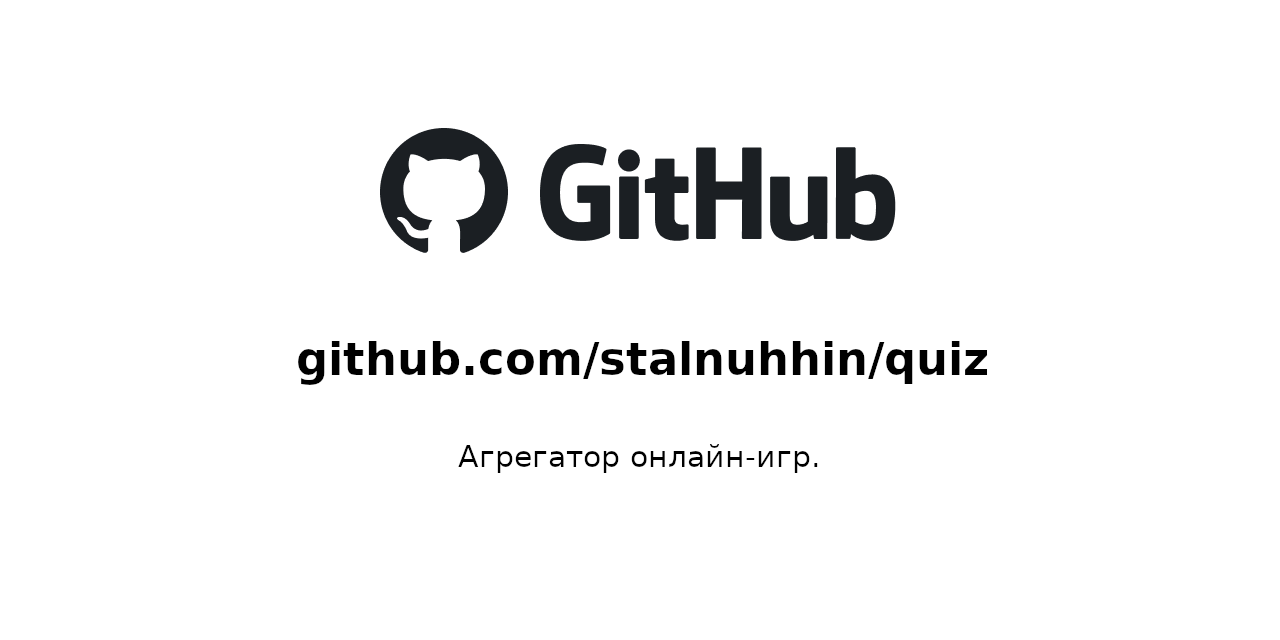
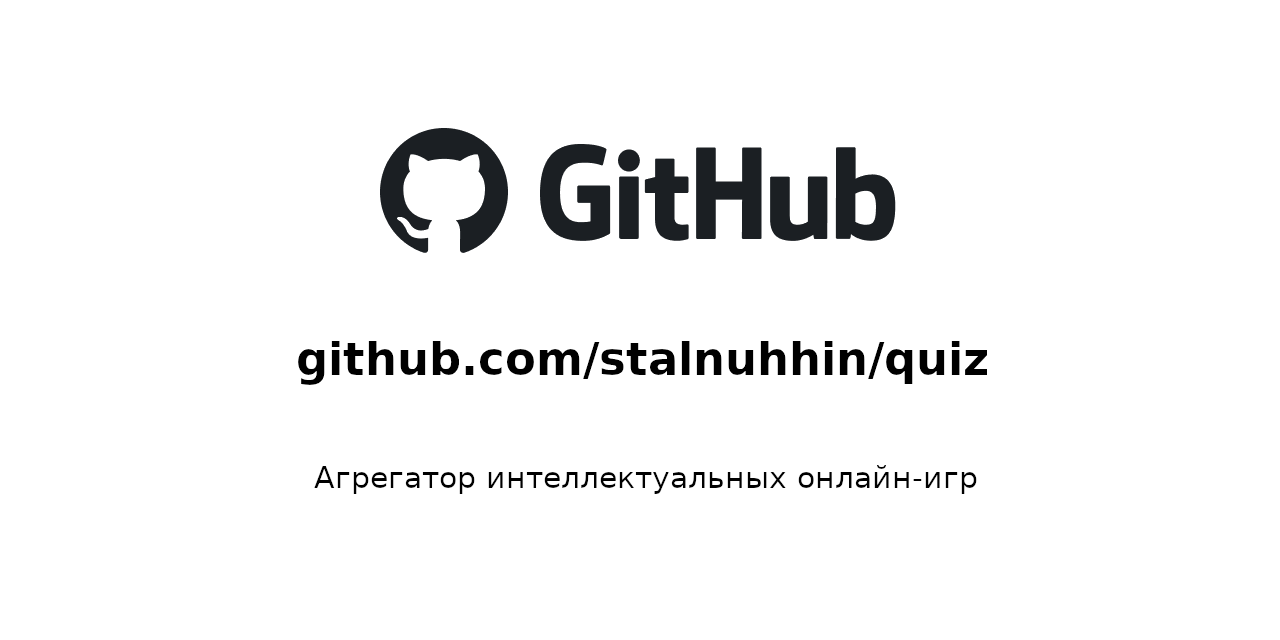
updates

Changed region(s): [[0.25, 0.6875, 0.7812, 0.7812]]

diff --git a/index.html b/index.html
@@ -5,9 +5,9 @@
     <meta name="viewport" content="width=device-width, initial-scale=1, shrink-to-fit=no">
     <link rel="stylesheet" href="https://stackpath.bootstrapcdn.com/bootstrap/4.4.1/css/bootstrap.min.css"
           integrity="sha384-Vkoo8x4CGsO3+Hhxv8T/Q5PaXtkKtu6ug5TOeNV6gBiFeWPGFN9MuhOf23Q9Ifjh" crossorigin="anonymous">
-    <title>Агрегатор online-квизов</title>
-    <meta property="og:title" content="Агрегатор онлайн-игр"/>
-    <meta property="og:description" content="Агрегатор онлайн-игр: все игры в одном месте."/>
+    <title>Агрегатор интеллектуальных online-игр</title>
+    <meta property="og:title" content="Агрегатор интеллектуальных онлайн-игр"/>
+    <meta property="og:description" content="Агрегатор интеллектуальных онлайн-игр: все игры в одном месте."/>
     <meta property="og:image" content="https://stalnuhhin.github.io/quiz/sm.png"/>
 
 </head>
@@ -93,7 +93,7 @@
                         <div class="jumbotron mt-5">
                             <h1 class="display-4">Что это?</h1>
                             <p class="lead">
-                                На этой страничке представлен список онлайн-игр для удобного их отслеживания.
+                                На этой страничке представлен список интеллектуальных онлайн-игр для удобного их отслеживания.
                             </p>
                             <hr class="my-4">
                             <p>
@@ -141,13 +141,10 @@
 <script async src="https://www.googletagmanager.com/gtag/js?id=UA-30793561-3"></script>
 <script>
     window.dataLayer = window.dataLayer || [];
-
     function gtag() {
         dataLayer.push(arguments);
     }
-
     gtag('js', new Date());
-
     gtag('config', 'UA-30793561-3');
 </script>
 
